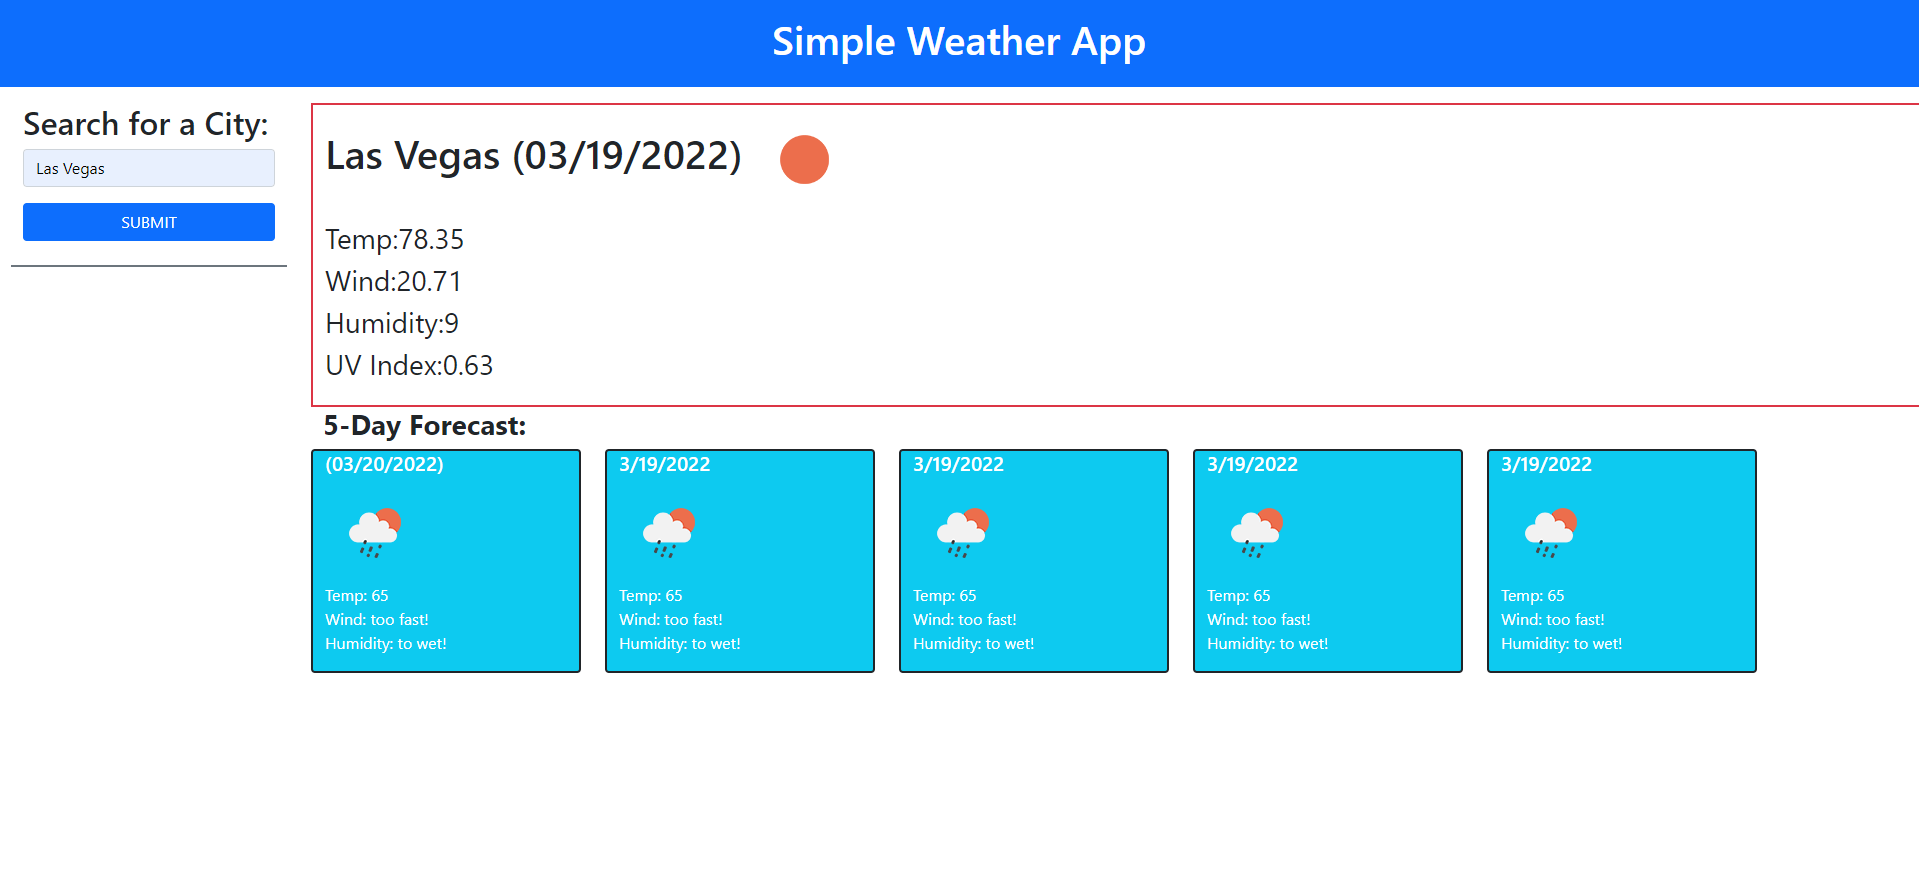
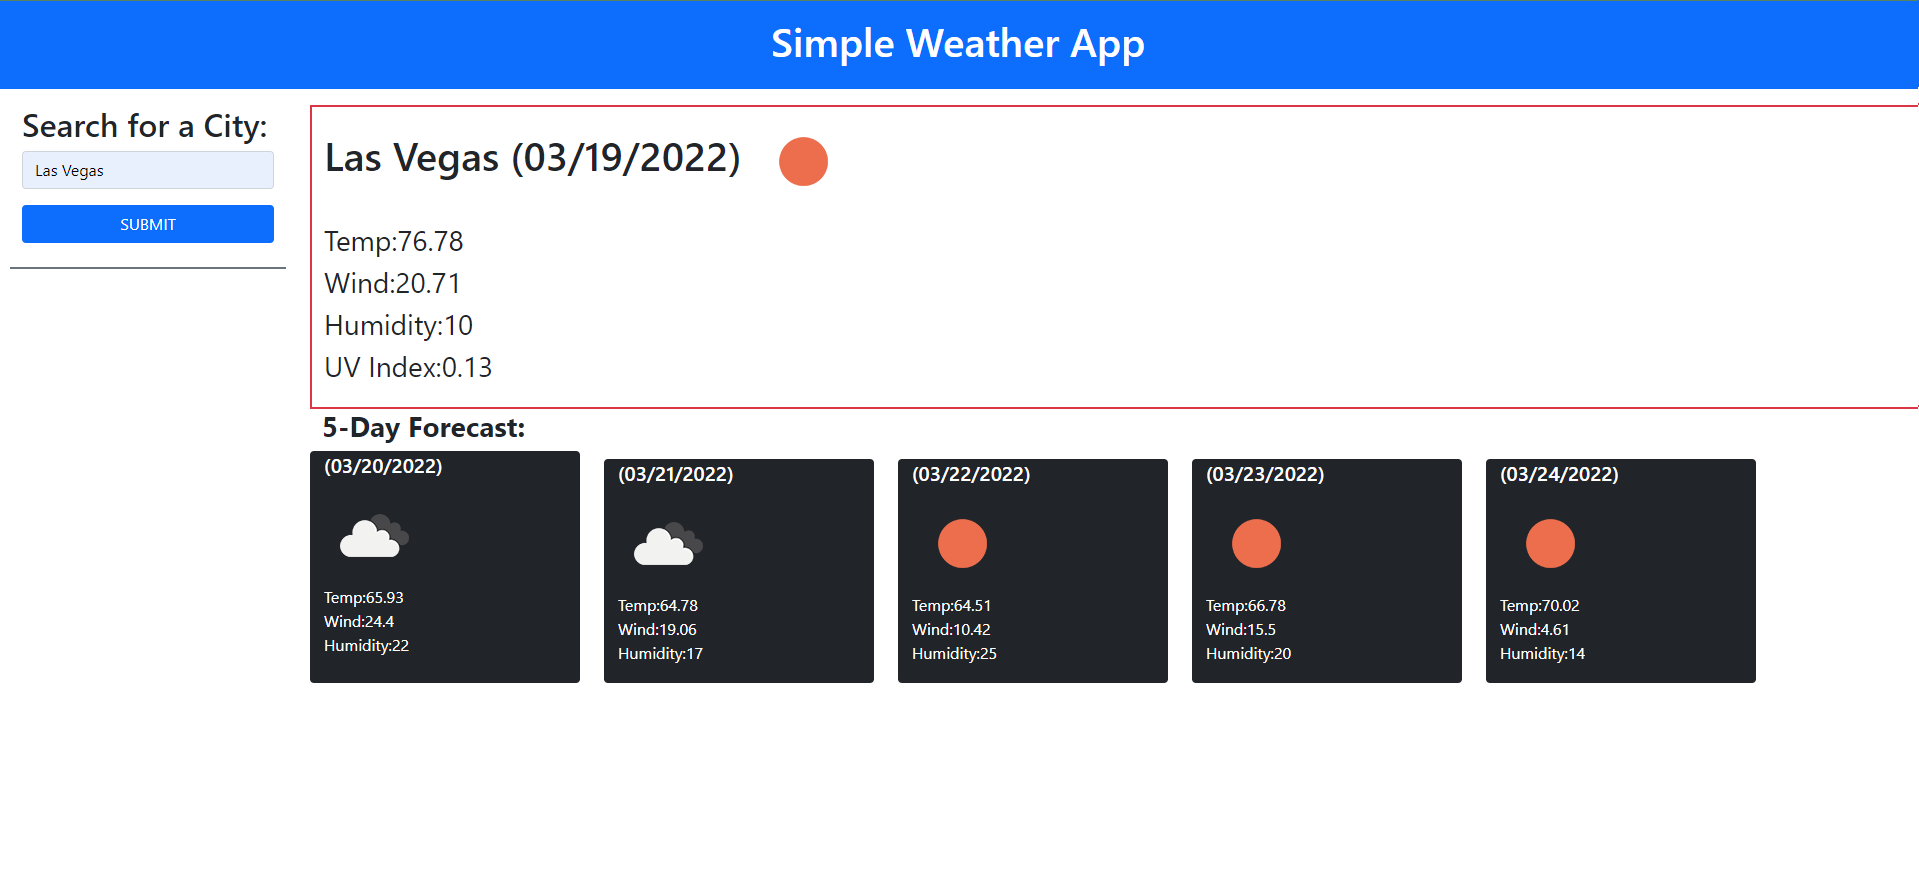
uploaded files

diff --git a/script.js b/script.js
@@ -5,14 +5,39 @@ var cityname = document.querySelector("#cityName");
 var image = document.querySelector(".image");
 var dashboard = document.querySelector("#dashboard");
 var apiKey = "4cf84f97761ef4ad3d872af26897cfb0";
-
 var fiveday = document.querySelector("#fiveDay");
+var searchTextEl = document.querySelector(".searchText")
+var searchArray = JSON.parse(localStorage.getItem("searchArray"));
+
+
+//ID TAGGED TO A UL WITH LI'S STORED INSIDE. THIS IS DATA FOR PREVIOUS SEARCH RESULTS TO GO BACK TO BY CLICKING ON.
+// var previousData = document.querySelector('#previousData')
+
+
+
+
 
 //api call example?
 // https://api.openweathermap.org/data/2.5/onecall?lat={lat}&lon={lon}&exclude={part}&appid={API key}
 
 search.addEventListener("click", function (e) {
   e.preventDefault();
+
+
+  // var newLi = document.createElement("li");
+  // newLi.textContent = searchTextEl.value;
+  // console.log(prevSearchUlEl);
+  // console.log(newLi);
+
+  // newLi.addEventListener("click", function (liEvent, parent) {
+  //   searchTextEl.value = liEvent.srcElement.textContent;
+  //   getWeatherAPI();
+  // });
+  // prevSearchUlEl.appendChild(newLi);
+
+  //thus is where to store history
+
+
   fetch(
     `https://api.openweathermap.org/data/2.5/weather?q=${cityname.value}&appid=${apiKey}&units=imperial`
   )
@@ -20,7 +45,7 @@ search.addEventListener("click", function (e) {
     .then((currentData) => {
       console.log(currentData);
       fetch(
-        `https://api.openweathermap.org/data/2.5/onecall?lat=${currentData.coord.lat}&lon=${currentData.coord.lon}&appid=4cf84f97761ef4ad3d872af26897cfb0&units=imperial`
+        `https://api.openweathermap.org/data/2.5/onecall?lat=${currentData.coord.lat}&lon=${currentData.coord.lon}&appid=${apiKey}&units=imperial`
       )
         .then((res) => res.json())
         .then((fiveData) => {
@@ -42,68 +67,68 @@ search.addEventListener("click", function (e) {
             </ul>`;
 
           fiveday.innerHTML = `  <div
-                class="col-sm-2 border border-dark border-2 bg-info text-white rounded"
+                class="col-sm-2 border border-dark border-2 bg-dark text-white rounded"
               >
                 <h5>${moment(fiveData.daily[1].dt, "X").format("(MM/DD/YYYY)")} </h5>
 
                 <ul class="list-inline">
-                  <img src="http://openweathermap.org/img/wn/10d@2x.png" />
+                  <img src="http://openweathermap.org/img/wn/${fiveData.daily[1].weather[0].icon}@2x.png" />
                   </li>
-                  <li>Temp: 65</li>
-                  <li>Wind: too fast!</li>
-                  <li>Humidity: to wet!</li>
+                  <li>Temp:${fiveData.daily[1].temp.day}</li>
+                  <li>Wind:${fiveData.daily[1].wind_speed}</li>
+                  <li>Humidity:${fiveData.daily[1].humidity}</li>
                 </ul>
               </div>
              <div
-                class="col-sm-2 border border-dark border-2 bg-info text-white rounded ms-4"
+                class="col-sm-2 border border-dark border-2 bg-dark text-white rounded ms-4 mt-2"
               >
-                <h5>3/19/2022</h5>
+                <h5>${moment(fiveData.daily[2].dt, "X").format("(MM/DD/YYYY)")}</h5>
 
                 <ul class="list-inline">
-                  <img src="http://openweathermap.org/img/wn/10d@2x.png" />
+                 <img src="http://openweathermap.org/img/wn/${fiveData.daily[2].weather[0].icon}@2x.png" />
                   </li>
-                  <li>Temp: 65</li>
-                  <li>Wind: too fast!</li>
-                  <li>Humidity: to wet!</li>
+                  <li>Temp:${fiveData.daily[2].temp.day}</li>
+                  <li>Wind:${fiveData.daily[2].wind_speed}</li>
+                  <li>Humidity:${fiveData.daily[2].humidity}</li>
                 </ul>
               </div>
                <div
-                class="col-sm-2 border border-dark border-2 bg-info text-white rounded ms-4"
+                class="col-sm-2 border border-dark border-2 bg-dark text-white rounded ms-4 mt-2"
               >
-                <h5>3/19/2022</h5>
+                <h5>${moment(fiveData.daily[3].dt, "X").format("(MM/DD/YYYY)")}</h5>
 
                 <ul class="list-inline">
-                  <img src="http://openweathermap.org/img/wn/10d@2x.png" />
+                  <img src="http://openweathermap.org/img/wn/${fiveData.daily[3].weather[0].icon}@2x.png" />
                   </li>
-                  <li>Temp: 65</li>
-                  <li>Wind: too fast!</li>
-                  <li>Humidity: to wet!</li>
+                  <li>Temp:${fiveData.daily[3].temp.day}</li>
+                  <li>Wind:${fiveData.daily[3].wind_speed}</li>
+                  <li>Humidity:${fiveData.daily[3].humidity}</li>
                 </ul>
               </div>
                <div
-                class="col-sm-2 border border-dark border-2 bg-info text-white rounded ms-4"
+                class="col-sm-2 border border-dark border-2 bg-dark text-white rounded ms-4 mt-2"
               >
-                <h5>3/19/2022</h5>
+                <h5>${moment(fiveData.daily[4].dt, "X").format("(MM/DD/YYYY)")}</h5>
 
                 <ul class="list-inline">
-                  <img src="http://openweathermap.org/img/wn/10d@2x.png" />
+                 <img src="http://openweathermap.org/img/wn/${fiveData.daily[4].weather[0].icon}@2x.png" />
                   </li>
-                  <li>Temp: 65</li>
-                  <li>Wind: too fast!</li>
-                  <li>Humidity: to wet!</li>
+                  <li>Temp:${fiveData.daily[4].temp.day}</li>
+                  <li>Wind:${fiveData.daily[4].wind_speed}</li>
+                  <li>Humidity:${fiveData.daily[4].humidity}</li>
                 </ul>
               </div>
                <div
-                class="col-sm-2 border border-dark border-2 bg-info text-white rounded ms-4"
+                class="col-sm-2 border border-dark border-2 bg-dark text-white rounded ms-4 mt-2"
               >
-                <h5>3/19/2022</h5>
+                <h5>${moment(fiveData.daily[5].dt, "X").format("(MM/DD/YYYY)")}</h5>
 
                 <ul class="list-inline">
-                  <img src="http://openweathermap.org/img/wn/10d@2x.png" />
+                  <img src="http://openweathermap.org/img/wn/${fiveData.daily[5].weather[0].icon}@2x.png" />
                   </li>
-                  <li>Temp: 65</li>
-                  <li>Wind: too fast!</li>
-                  <li>Humidity: to wet!</li>
+                  <li>Temp:${fiveData.daily[5].temp.day}</li>
+                  <li>Wind:${fiveData.daily[5].wind_speed}</li>
+                  <li>Humidity:${fiveData.daily[5].humidity}</li>
                 </ul>
               </div>
            `;

diff --git a/index.html b/index.html
@@ -11,7 +11,7 @@
       crossorigin="anonymous"
     />
     <link rel="stylesheet" href="./style.css" />
-    <title>test</title>
+    <title>Weather App</title>
   </head>
   <body>
     <div class="row">
@@ -27,11 +27,10 @@
             <h2 class="heading">Search for a City:</h2>
             <form id="searchForm">
               <input
-              id="cityName"
+                id="cityName"
                 type="text"
-                class="form-control"
+                class="form-control searchText"
                 placeholder="Search for a city"
-             
               />
               <button type="submit" class="btn btn-primary w-100 mt-3">
                 SUBMIT
@@ -41,27 +40,7 @@
             <div class="row border border-secondary mt-4"></div>
             <div class="row">
               <div class="col-sm-12 mt-3">
-                <ul class="list-group">
-                  <li
-                    class="list-group-item mb-3 text-center fw-bold bg-secondary rounded d-none d-print-block"
-                  >
-                    PAST CITY SEARCH
-                  </li>
-                  <li
-                    class="list-group-item mb-3 text-center fw-bold bg-secondary rounded d-none d-print-block"
-                  >
-                    PAST CITY SEARCH
-                  </li>
-                  <li
-                    class="list-group-item mb-3 text-center fw-bold bg-secondary rounded d-none d-print-block"
-                  >
-                    PAST CITY SEARCH
-                  </li>
-                  <li
-                    class="list-group-item mb-3 text-center fw-bold bg-secondary rounded d-none d-print-block"
-                  >
-                    PAST CITY SEARCH
-                  </li>
+                <ul id="previousData" class="list-group">
                   <li
                     class="list-group-item mb-3 text-center fw-bold bg-secondary rounded d-none d-print-block"
                   >
@@ -75,27 +54,94 @@
       </div>
       <div class="col-sm-10">
         <div class="row">
-          <div id="dashboard" class="col-sm-12 py-1 border border-danger border-2 mt-3">
-        
+          <div
+            id="dashboard"
+            class="col-sm-12 py-1 border border-danger border-2 mt-3"
+          >
+            <h3 class="fs-1">
+              SEARCHED CITY NAME
+            
+            </h3>
+            <ul class="fs-3 list-inline">
+              <li>Temp:${currentData.main.temp}</li>
+              <li>Wind:${currentData.wind.speed}</li>
+              <li>Humidity:${currentData.main.humidity}</li>
+              <li>UV Index:${fiveData.current.uvi}</li>
+            </ul>
+            `;
           </div>
           <div class="contain">
-             <h3 class="fw-bold">5-Day Forecast:</h3>
+            <h3 class="fw-bold">5-Day Forecast:</h3>
             <div id="fiveDay" class="row">
+              <div class="col-sm-2 border border-dark border-2 bg-dark text-white rounded">
+                            <h5>MM/DD/YYYY </h5>
+                            <ul class="list-inline"> 
+                              </li>
+                              <li>Temp:</li>
+                              <li>Wind:</li>
+                              <li>Humidity:</li>
+                            </ul>
+                          </div>
+                         <div class="col-sm-2 border border-dark border-2 bg-dark text-white rounded ms-4 mt-2">
+                            <h5>MM/DD/YYYY</h5>
+                            <ul class="list-inline">                 
+                              </li>
+                              <li>Temp:</li>
+                              <li>Wind:</li>
+                              <li>Humidity:</li>
+                            </ul>
+                          </div>
+                           <div class="col-sm-2 border border-dark border-2 bg-dark text-white rounded ms-4 mt-2">
+                            <h5>MM/DD/YYYY</h5>
+                            <ul class="list-inline">                  
+                              </li>
+                              <li>Temp:</li>
+                              <li>Wind:</li>
+                              <li>Humidity:</li>
+                            </ul>
+                          </div>
+                           <div
+                            class="col-sm-2 border border-dark border-2 bg-dark text-white rounded ms-4 mt-2"
+                          >
+                            <h5>MM/DD/YYYY</h5>
             
+                            <ul class="list-inline">
+                             
+                              </li>
+                              <li>Temp:</li>
+                              <li>Wind:</li>
+                              <li>Humidity:</li>
+                            </ul>
+                          </div>
+                           <div
+                            class="col-sm-2 border border-dark border-2 bg-dark text-white rounded ms-4 mt-2"
+                          >
+                            <h5>MM/DD/YYYY</h5>
             
-          
-            </div>
+                            <ul class="list-inline">
+                              
+                              </li>
+                              <li>Temp:</li>
+                              <li>Wind:</li>
+                              <li>Humidity:</li>
+                            </ul>
+                          </div>
+                        </div>         
           </div>
         </div>
       </div>
     </div>
-
     <script
       src="https://cdn.jsdelivr.net/npm/bootstrap@5.1.3/dist/js/bootstrap.bundle.min.js"
       integrity="sha384-ka7Sk0Gln4gmtz2MlQnikT1wXgYsOg+OMhuP+IlRH9sENBO0LRn5q+8nbTov4+1p"
       crossorigin="anonymous"
     ></script>
-    <script src="https://cdnjs.cloudflare.com/ajax/libs/moment.js/2.29.1/moment.min.js" integrity="sha512-qTXRIMyZIFb8iQcfjXWCO8+M5Tbc38Qi5WzdPOYZHIlZpzBHG3L3by84BBBOiRGiEb7KKtAOAs5qYdUiZiQNNQ==" crossorigin="anonymous" referrerpolicy="no-referrer"></script>
+    <script
+      src="https://cdnjs.cloudflare.com/ajax/libs/moment.js/2.29.1/moment.min.js"
+      integrity="sha512-qTXRIMyZIFb8iQcfjXWCO8+M5Tbc38Qi5WzdPOYZHIlZpzBHG3L3by84BBBOiRGiEb7KKtAOAs5qYdUiZiQNNQ=="
+      crossorigin="anonymous"
+      referrerpolicy="no-referrer"
+    ></script>
     <script src="script.js"></script>
   </body>
 </html>

diff --git a/readme.md b/readme.md
@@ -1,5 +1,25 @@
-# weatherapp
+# Weather App [![License: MIT](https://img.shields.io/badge/License-MIT-yellow.svg)](https://opensource.org/licenses/MIT)
 
-This weather app will tell you the most current up to date weather reports found in the most major popular cities in America!
-The data will be pulled from a server API and displaying the data for users to have just by searching city name.
-References for the past search results will be displayed beneath the search bar.
+## Description
+
+## Installation
+
+no installtion needed, just a web browser which most phones have. go to the following website address https://starbjornx.github.io/weatherapp/ and follow How to instructions!
+
+## How To
+
+search for a city and hit submit you will find results for the current day and the upcoming next five days.
+
+## Credit
+
+Kyle Henriksen
+
+## Comments
+
+Did pretty well I struggled really hard on the java script end and needed help with my tutor Phil Loy. We worked on it together, I got stuck on the storing data and presenting it back to you after you searched for a city. I needed extra help with that as well.
+
+#
+
+![Preview Image](/weatherappExample.png)
+
+## Weather app (c) 2022 all right reserved.
